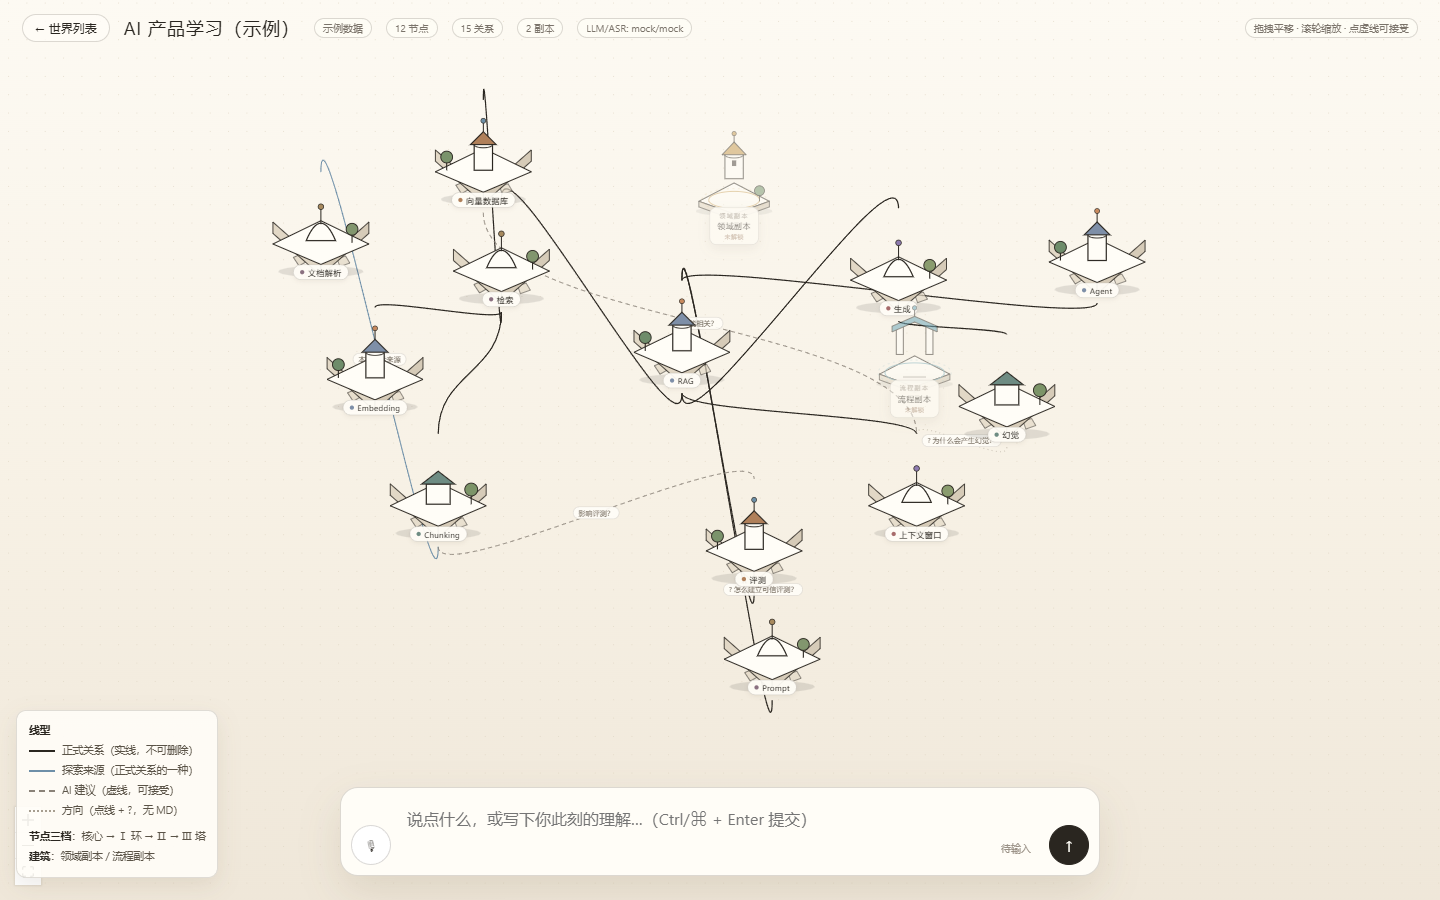
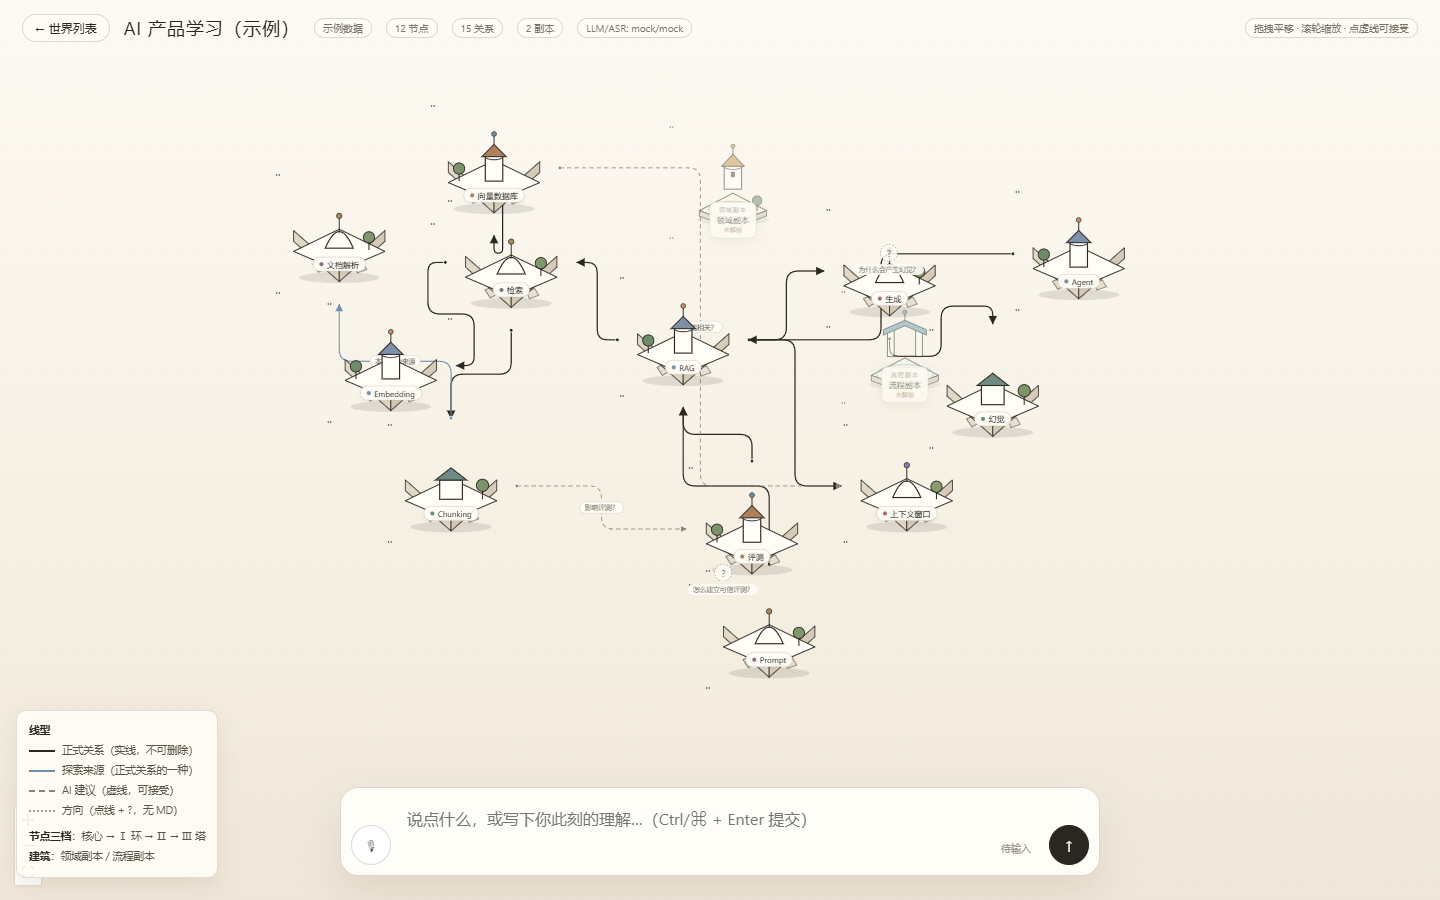
fix(edges): 明确起点/终点，改为正交路由 + 箭头，同对节点自动错开
- 节点四向 handle（上/右/下/左），按两端相对位置自动选边，消除绕圈扭曲
- 实线/虚线/点线全部加箭头；非方向线在起点画圆点，一眼看出 A → B
- 同一对节点的多条线按 bend 偏移错开，不再重叠
- 方向线保持悬空 ?，点线带箭头指向标记
- 隐藏 React Flow 默认 handle 圆点

diff --git a/web/src/components/World.tsx b/web/src/components/World.tsx
@@ -16,6 +16,8 @@ import InputBar from "./InputBar";
 import NodeDrawer from "./NodeDrawer";
 import BuildingDrawer from "./BuildingDrawer";
 
+const SPREAD = 1.28;
+const EDGE_COLORS: Record<string, string> = { formal: "#2a2620", source: "#6e8fa8", suggest: "#8a8278", direction: "#a79e90" };
 const nodeTypes = { island: IslandNode, building: BuildingNode, direction: DirectionNode };
 const edgeTypes = { kw: KwEdge };
 
@@ -39,7 +41,7 @@ export default function World() {
   }, []);
 
   const rfNodes = useMemo<Node[]>(() => {
-    const SPREAD = 1.28; // 节点造型变大后，坐标也拉开，避免岛叠在一起
+    // 坐标随造型放大拉开，避免岛体重叠
     const base: Node[] = nodes.map((n) => ({
       id: n.id,
       type: "island",
@@ -84,27 +86,54 @@ export default function World() {
     return [...base, ...bs, ...dirs];
   }, [nodes, buildings, edges]);
 
-  const rfEdges = useMemo<Edge[]>(
-    () =>
-      edges.map((e) =>
-        e.kind === "direction"
-          ? {
-              id: e.id,
-              source: e.src,
-              target: "d:" + e.id,
-              type: "kw",
-              data: { kind: e.kind, label: e.label, question: e.question },
-            }
-          : {
-              id: e.id,
-              source: e.src,
-              target: e.dst,
-              type: "kw",
-              data: { kind: e.kind, label: e.label, question: e.question },
-            },
-      ),
-    [edges],
-  );
+  const rfEdges = useMemo<Edge[]>(() => {
+    const center = (id: string) => {
+      const n = nodes.find((x) => x.id === id);
+      return n ? { x: n.x * SPREAD + 95, y: n.y * SPREAD + 75 } : null;
+    };
+    const dirPos = (e: any) => {
+      const src = nodes.find((n) => n.id === e.src);
+      let seed = 0;
+      for (let i = 0; i < e.id.length; i++) seed = (seed * 31 + e.id.charCodeAt(i)) | 0;
+      const ang = ((Math.abs(seed) % 360) * Math.PI) / 180;
+      return {
+        x: (src?.x ?? 0) * SPREAD + Math.cos(ang) * 190,
+        y: (src?.y ?? 0) * SPREAD + Math.sin(ang) * 150,
+      };
+    };
+    const counts: Record<string, number> = {};
+    const bends = [0, 1, -1, 2, -2];
+    return edges
+      .map((e) => {
+        const isDir = e.kind === "direction";
+        const a = center(e.src);
+        const b = isDir ? dirPos(e) : center(e.dst);
+        if (!a || !b) return null;
+        const dx = b.x - a.x;
+        const dy = b.y - a.y;
+        const horiz = Math.abs(dx) >= Math.abs(dy);
+        const sourceHandle = horiz ? (dx >= 0 ? "r" : "l") : (dy >= 0 ? "b" : "t");
+        const targetHandle = horiz ? (dx >= 0 ? "l" : "r") : (dy >= 0 ? "t" : "b");
+        const key = isDir ? "d:" + e.id : [e.src, e.dst].sort().join("|");
+        const idx = counts[key] ?? 0;
+        counts[key] = idx + 1;
+        return {
+          id: e.id,
+          source: e.src,
+          target: isDir ? "d:" + e.id : e.dst,
+          sourceHandle,
+          targetHandle,
+          type: "kw",
+          data: {
+            kind: e.kind,
+            label: e.label,
+            question: e.question,
+            bend: bends[idx % bends.length],
+          },
+        } as Edge;
+      })
+      .filter(Boolean) as Edge[];
+  }, [nodes, edges]);
 
   const onNodeClick = useCallback(
     (evt: any, node: Node) => {
@@ -131,6 +160,25 @@ export default function World() {
   if (!world) return null;
 
   return (
+    <>
+      <svg aria-hidden style={{ position: "fixed", width: 0, height: 0, overflow: "hidden" }}>
+        <defs>
+          {Object.entries(EDGE_COLORS).map(([kind, color]) => (
+            <marker
+              key={kind}
+              id={`kw-arrow-${kind}`}
+              viewBox="0 0 10 10"
+              refX="9"
+              refY="5"
+              markerWidth="7"
+              markerHeight="7"
+              orient="auto"
+            >
+              <path d="M0,0 L10,5 L0,10 z" fill={color} />
+            </marker>
+          ))}
+        </defs>
+      </svg>
     <div className="world">
       <div className="topbar">
         <button className="ghost-btn" onClick={backHome}>
@@ -178,5 +226,6 @@ export default function World() {
       {drawer?.kind === "node" && <NodeDrawer />}
       {drawer?.kind === "building" && <BuildingDrawer />}
     </div>
+    </>
   );
 }

diff --git a/web/src/components/KwEdge.tsx b/web/src/components/KwEdge.tsx
@@ -1,13 +1,21 @@
-import {
+import {
   BaseEdge,
   EdgeLabelRenderer,
-  getBezierPath,
+  getSmoothStepPath,
   type EdgeProps,
 } from "@xyflow/react";
 
+const COLORS: Record<string, string> = {
+  formal: "#2a2620",
+  source: "#6e8fa8",
+  suggest: "#8a8278",
+  direction: "#a79e90",
+};
+
 /**
- * 四种线型（对应 MVP 文档）：
- * formal 正式关系 / source 探索来源 / suggest 虚线建议 / direction 方向线（无 MD）
+ * 四种线型 + 明确方向：
+ * formal/source 实线带箭头；suggest 虚线带箭头；direction 点线指到悬空 ?。
+ * 同一条边的 bend 偏移由 World 计算，避免两条边叠在一起。
  */
 export default function KwEdge(props: EdgeProps) {
   const {
@@ -19,33 +27,61 @@ export default function KwEdge(props: EdgeProps) {
     targetPosition,
     data,
   } = props;
-  const kind = (data as any)?.kind ?? "formal";
-  const label = (data as any)?.label ?? "";
-  const question = (data as any)?.question ?? "";
+  const d = (data ?? {}) as any;
+  const kind = d.kind ?? "formal";
+  const color = COLORS[kind] ?? COLORS.formal;
+  const bend: number = d.bend ?? 0;
 
-  const [path, labelX, labelY] = getBezierPath({
+  // 中点垂直偏移，避免同一对节点的多条线重叠
+  const mx = (sourceX + targetX) / 2;
+  const my = (sourceY + targetY) / 2;
+  const dx = targetX - sourceX;
+  const dy = targetY - sourceY;
+  const len = Math.hypot(dx, dy) || 1;
+  const ox = (-dy / len) * bend * 26;
+  const oy = (dx / len) * bend * 26;
+
+  const [path, labelX, labelY] = getSmoothStepPath({
     sourceX,
     sourceY,
     targetX,
     targetY,
     sourcePosition,
     targetPosition,
-    curvature: 0.25,
+    borderRadius: 18,
+    offset: 26,
+    centerX: mx + ox,
+    centerY: my + oy,
   });
 
-  const style: React.CSSProperties =
-    kind === "formal"
-      ? { stroke: "#2a2620", strokeWidth: 1.7 }
-      : kind === "source"
-        ? { stroke: "#6e8fa8", strokeWidth: 1.5 }
-        : kind === "suggest"
-          ? { stroke: "#8a8278", strokeWidth: 1.2, strokeDasharray: "6 5" }
-          : { stroke: "#a79e90", strokeWidth: 1.1, strokeDasharray: "1 5" };
+  const dashed = kind === "suggest";
+  const dotted = kind === "direction";
+  const width = kind === "formal" ? 1.8 : kind === "source" ? 1.6 : 1.2;
+
+  const style: React.CSSProperties = {
+    stroke: color,
+    strokeWidth: width,
+    strokeDasharray: dashed ? "6 5" : dotted ? "1 6" : undefined,
+    strokeLinecap: "round",
+  };
+
+  const arrowId =
+    kind === "source"
+      ? "kw-arrow-source"
+      : kind === "suggest"
+        ? "kw-arrow-suggest"
+        : kind === "direction"
+          ? "kw-arrow-direction"
+          : "kw-arrow-formal";
 
   return (
     <>
-      <BaseEdge path={path} style={style} markerEnd={undefined} />
-      {kind !== "formal" && (label || question || kind === "direction") && (
+      <BaseEdge path={path} style={style} markerEnd={`url(#${arrowId})`} />
+      {/* 起点圆点：一眼看出 A → B */}
+      {kind !== "direction" && (
+        <circle cx={sourceX} cy={sourceY} r={2.6} fill={color} stroke="#fffdf7" strokeWidth={1} />
+      )}
+      {(kind === "suggest" || kind === "source") && d.label && (
         <EdgeLabelRenderer>
           <div
             style={{
@@ -54,17 +90,17 @@ export default function KwEdge(props: EdgeProps) {
               pointerEvents: "none",
               fontSize: 10,
               color: "#6e6558",
-              background: "rgba(255,253,247,.92)",
+              background: "rgba(255,253,247,.94)",
               border: "1px solid rgba(60,50,40,.14)",
               borderRadius: 999,
               padding: "1px 7px",
               whiteSpace: "nowrap",
-              maxWidth: 180,
+              maxWidth: 170,
               overflow: "hidden",
               textOverflow: "ellipsis",
             }}
           >
-            {kind === "direction" ? "? " + (question || "下一步方向") : label}
+            {d.label}
           </div>
         </EdgeLabelRenderer>
       )}

diff --git a/web/src/components/IslandNode.tsx b/web/src/components/IslandNode.tsx
@@ -1,4 +1,4 @@
-import { Handle, Position } from "@xyflow/react";
+import { Handle, Position } from "@xyflow/react";
 
 const INK = "#2a2620";
 const TOP = "#fffdf7";
@@ -102,7 +102,10 @@ export default function IslandNode({ data }: any) {
 
   return (
     <div className={"island-wrap" + (hidden || unknown ? " dim" : "")}>
-      <Handle type="target" position={Position.Top} style={{ opacity: 0 }} />
+      '<Handle id="t" type="target" position={Position.Top} style={{ opacity: 0 }} />
+      <Handle id="r" type="target" position={Position.Right} style={{ opacity: 0 }} />
+      <Handle id="b" type="target" position={Position.Bottom} style={{ opacity: 0 }} />
+      <Handle id="l" type="target" position={Position.Left} style={{ opacity: 0 }} />'
       <svg width={190} height={150} viewBox="0 0 190 150">
         <ellipse cx={cx} cy={138} rx={60} ry={8} fill="rgba(0,0,0,.10)" />
         <path d="M56 118 L70 112 L78 122 L64 130 Z" fill={SIDE} stroke={INK} strokeWidth="1" opacity=".8" />
@@ -130,7 +133,10 @@ export default function IslandNode({ data }: any) {
           {passed.short}/5 · {passed.judge}/10
         </div>
       )}
-      <Handle type="source" position={Position.Bottom} style={{ opacity: 0 }} />
+      '<Handle id="t" type="source" position={Position.Top} style={{ opacity: 0 }} />
+      <Handle id="r" type="source" position={Position.Right} style={{ opacity: 0 }} />
+      <Handle id="b" type="source" position={Position.Bottom} style={{ opacity: 0 }} />
+      <Handle id="l" type="source" position={Position.Left} style={{ opacity: 0 }} />'
     </div>
   );
 }

diff --git a/web/src/components/BuildingNode.tsx b/web/src/components/BuildingNode.tsx
@@ -1,4 +1,4 @@
-import { Handle, Position } from "@xyflow/react";
+import { Handle, Position } from "@xyflow/react";
 
 const INK = "#2a2620";
 const TOP = "#fffdf7";
@@ -16,7 +16,10 @@ export default function BuildingNode({ data }: any) {
 
   return (
     <div className={"building-wrap" + (locked ? " locked" : "")}>
-      <Handle type="target" position={Position.Top} style={{ opacity: 0 }} />
+      '<Handle id="t" type="target" position={Position.Top} style={{ opacity: 0 }} />
+      <Handle id="r" type="target" position={Position.Right} style={{ opacity: 0 }} />
+      <Handle id="b" type="target" position={Position.Bottom} style={{ opacity: 0 }} />
+      <Handle id="l" type="target" position={Position.Left} style={{ opacity: 0 }} />'
       <svg width={190} height={140} viewBox="0 0 190 140">
         <ellipse cx={cx} cy={124} rx={54} ry={7} fill="rgba(0,0,0,.10)" />
         {/* 底座 */}
@@ -63,7 +66,10 @@ export default function BuildingNode({ data }: any) {
           {cleared ? "已通关" : locked ? "未解锁" : "可挑战"}
         </span>
       </div>
-      <Handle type="source" position={Position.Bottom} style={{ opacity: 0 }} />
+      '<Handle id="t" type="source" position={Position.Top} style={{ opacity: 0 }} />
+      <Handle id="r" type="source" position={Position.Right} style={{ opacity: 0 }} />
+      <Handle id="b" type="source" position={Position.Bottom} style={{ opacity: 0 }} />
+      <Handle id="l" type="source" position={Position.Left} style={{ opacity: 0 }} />'
     </div>
   );
 }

diff --git a/web/src/styles.css b/web/src/styles.css
@@ -214,3 +214,6 @@ input, textarea { font: inherit; color: inherit; }
   overflow: hidden; text-overflow: ellipsis; background: rgba(255,253,247,.9);
   border-radius: 999px; padding: 1px 7px;
 }
+
+
+.react-flow__handle{opacity:0!important;pointer-events:none}
